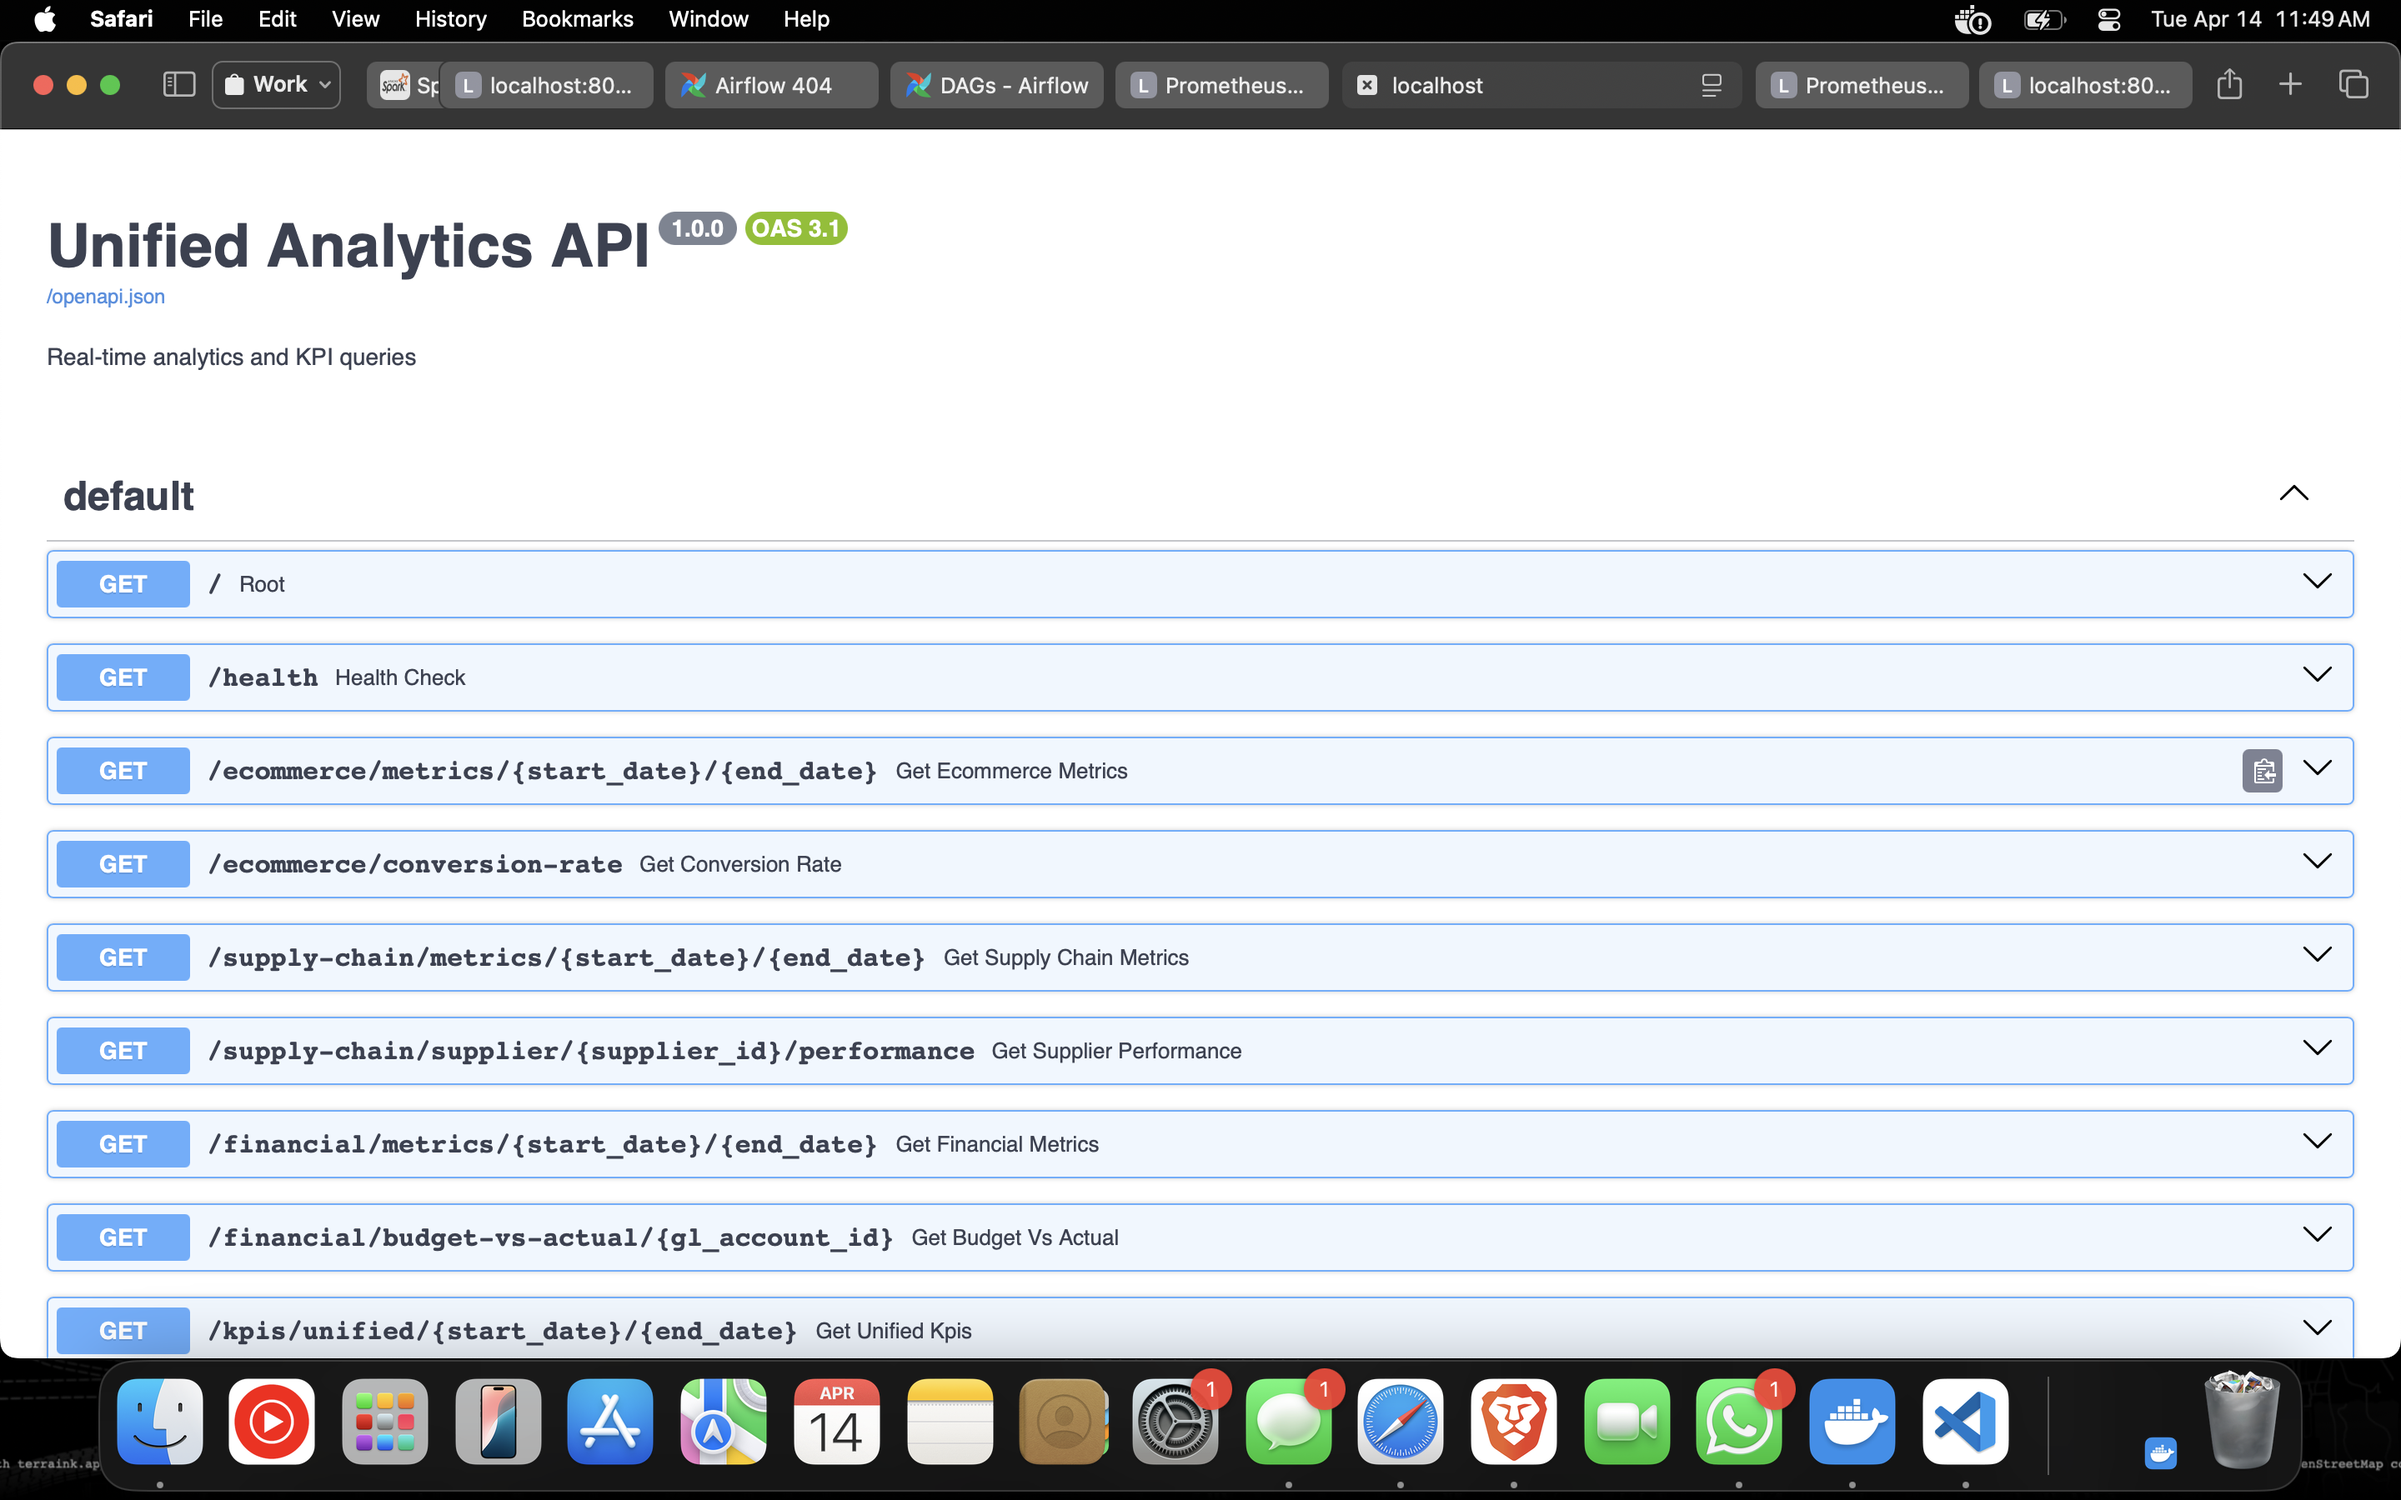
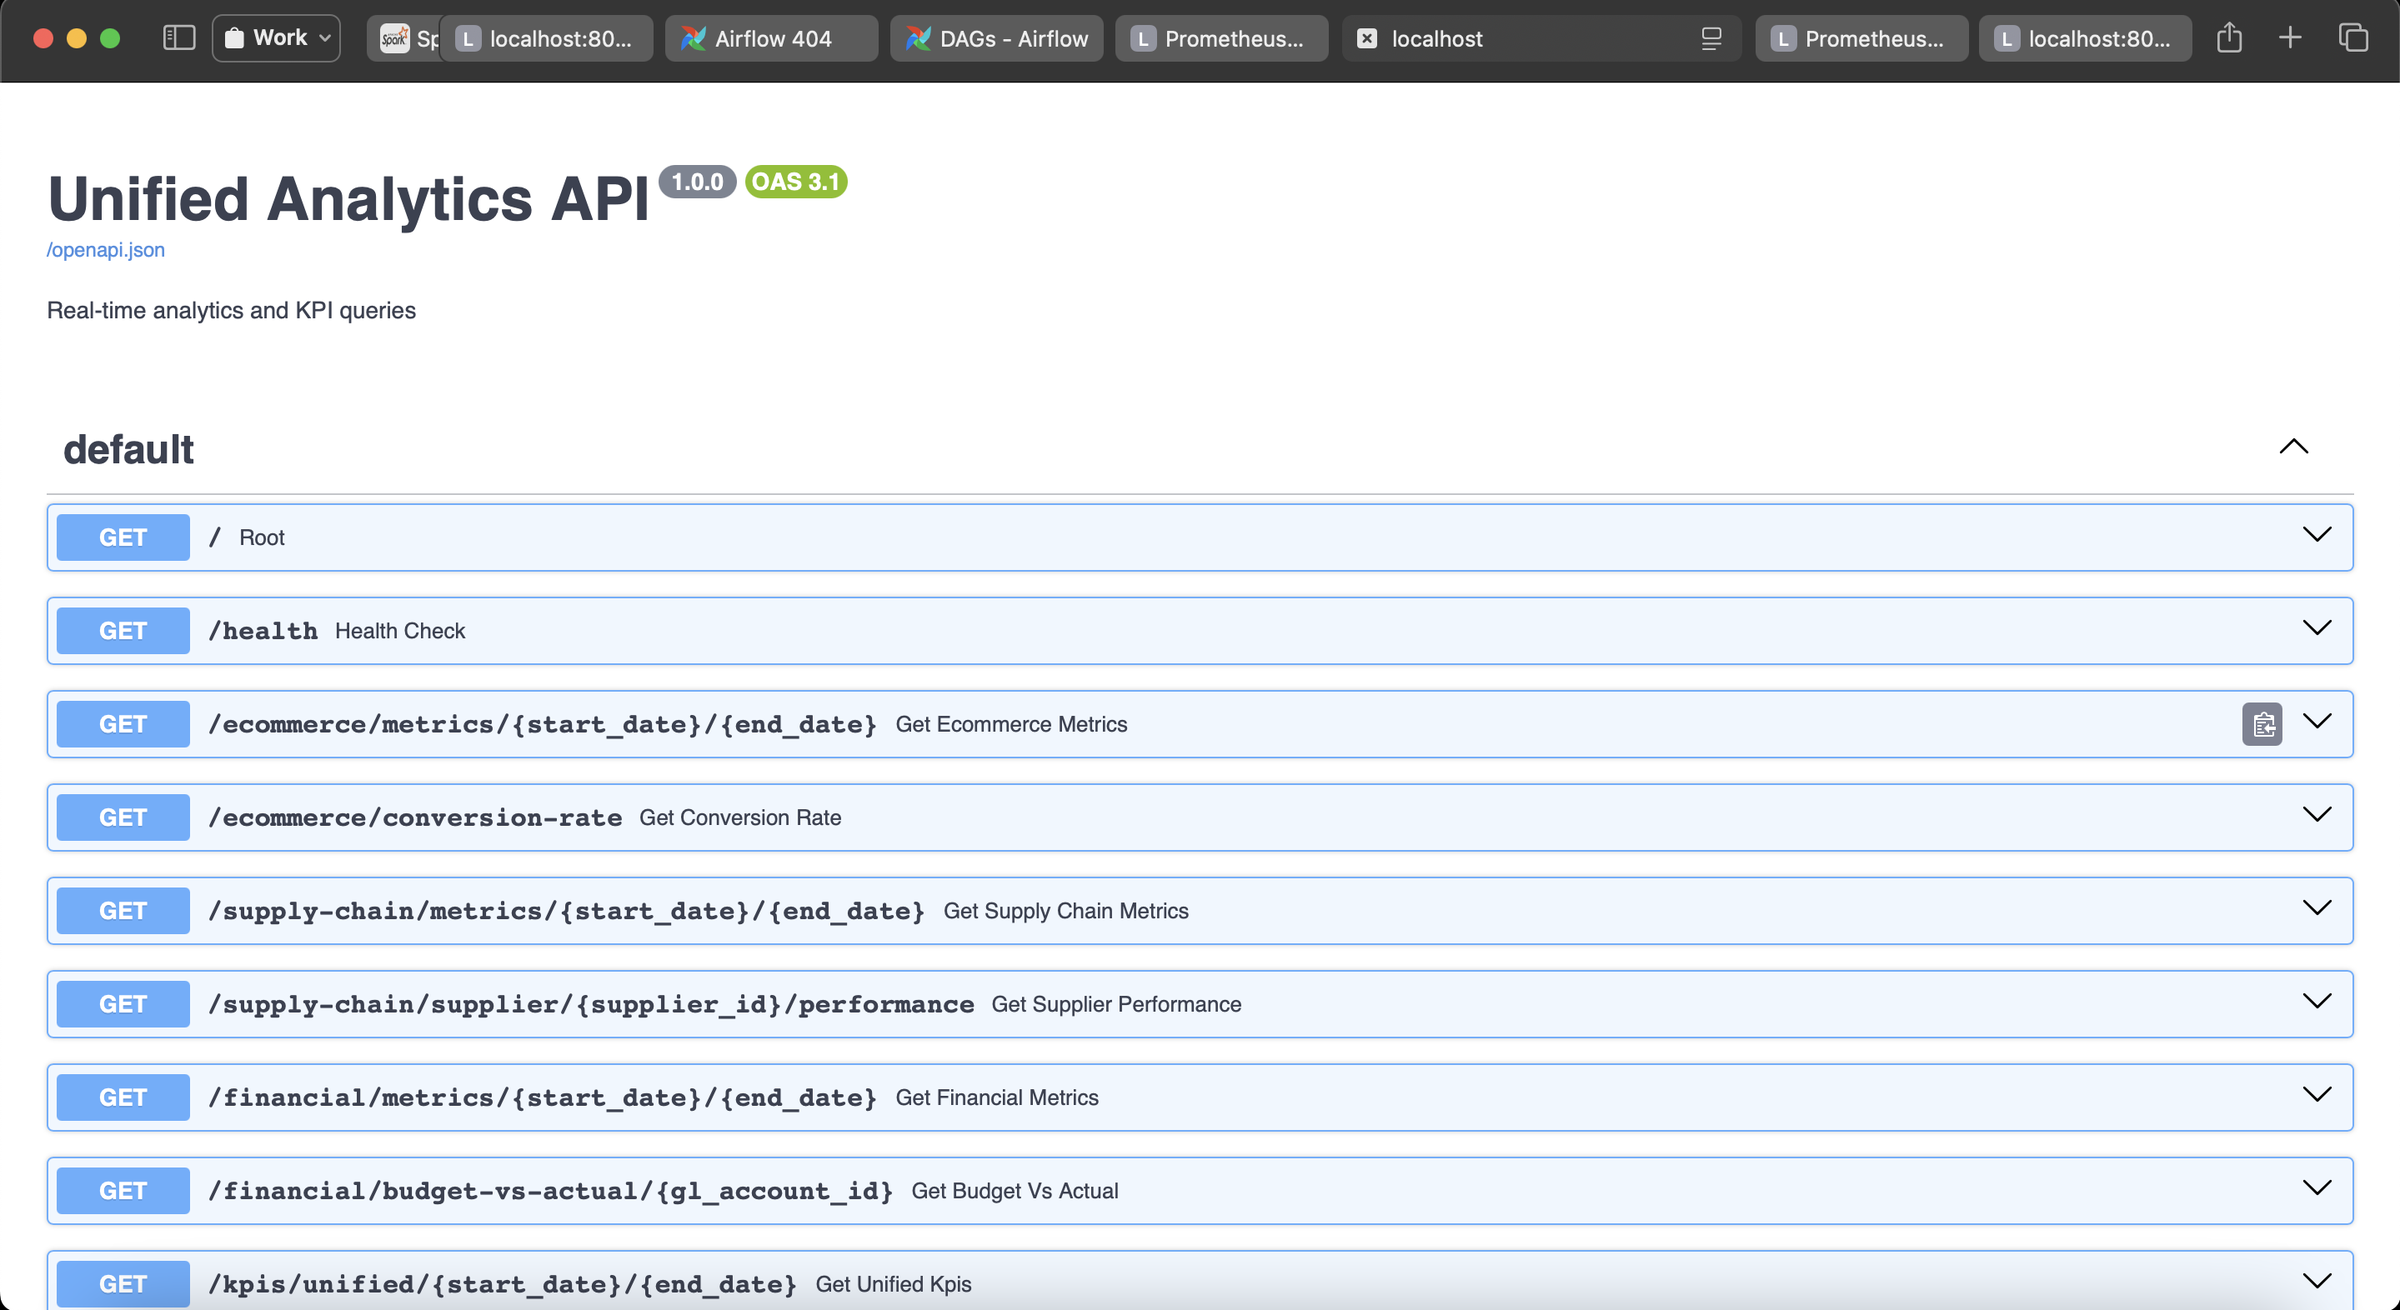
Update README with cropped screenshots and improved captions
- Replaced all 8 screenshots with user-cropped versions
- Updated README captions to accurately describe each screenshot:
  analytics API swagger, forecasting service, anomaly detection,
  live KPI summary JSON, ecommerce metrics JSON, Airflow DAGs,
  Spark Master with completed KPI Report job, Prometheus targets

Changed region(s): [[0.0, 0.3117, 1.0, 1.0], [0.0, 0.0, 1.0, 0.0935], [0.0, 0.1247, 0.371, 0.2494]]

diff --git a/README.md b/README.md
@@ -58,28 +58,58 @@ A unified, production-grade analytics platform combining E-Commerce, Supply Chai
 
 ## Screenshots
 
-### Analytics API — Unified KPI Endpoints
+### Analytics API — 9 Endpoints via Swagger UI
+Unified KPI queries across e-commerce, supply chain, and financial domains.
+
 ![Analytics API](docs/images/analytics_api.png)
 
-### Live KPI Summary — December 31 2025
-![KPI Summary](docs/images/kpi_summary.png)
+---
 
-### E-Commerce Metrics — Daily Data
-![E-Commerce Metrics](docs/images/ecommerce_metrics.png)
+### Forecasting Service — Demand, Lead Time & Cash Flow
+ARIMA and linear regression models exposed as REST endpoints.
 
-### Forecasting Service — Demand & Cash Flow
 ![Forecasting Service](docs/images/forecasting_service.png)
 
-### Anomaly Detection Service
+---
+
+### Anomaly Detection Service — Z-Score Alerts
+Real-time statistical anomaly detection across all KPI domains.
+
 ![Anomaly Detection](docs/images/anomaly_detection.png)
 
-### Apache Airflow — DAG Orchestration
+---
+
+### Live KPI Summary Response — December 31, 2025
+`GET /kpis/summary` — Revenue $7.19M · AOV $11,959 · On-time 86.33% · Lead time 24.98 days
+
+![KPI Summary](docs/images/kpi_summary.png)
+
+---
+
+### E-Commerce Daily Metrics — December 2025
+`GET /ecommerce/metrics/2025-12-25/2025-12-31` — ~620 orders/day · $7–8M revenue/day · 10% conversion
+
+![E-Commerce Metrics](docs/images/ecommerce_metrics.png)
+
+---
+
+### Apache Airflow v2.8.0 — DAG Orchestration
+`data_validation` DAG active · scheduler running · auto-refresh enabled
+
 ![Airflow](docs/images/airflow.png)
 
+---
+
 ### Apache Spark Master — KPI Report Job Completed
+1 worker · 8 cores · 2.8 GB memory · `Enterprise Analytics — KPI Report` finished in 18s
+
 ![Spark Master](docs/images/spark_master.png)
 
-### Prometheus — Service Monitoring
+---
+
+### Prometheus — 4 Services Scraped
+Targets: `anomaly-detection:8002` · `forecasting-service:8001` · `analytics-api:8000` · `prometheus:9090`
+
 ![Prometheus](docs/images/prometheus.png)
 
 ---
